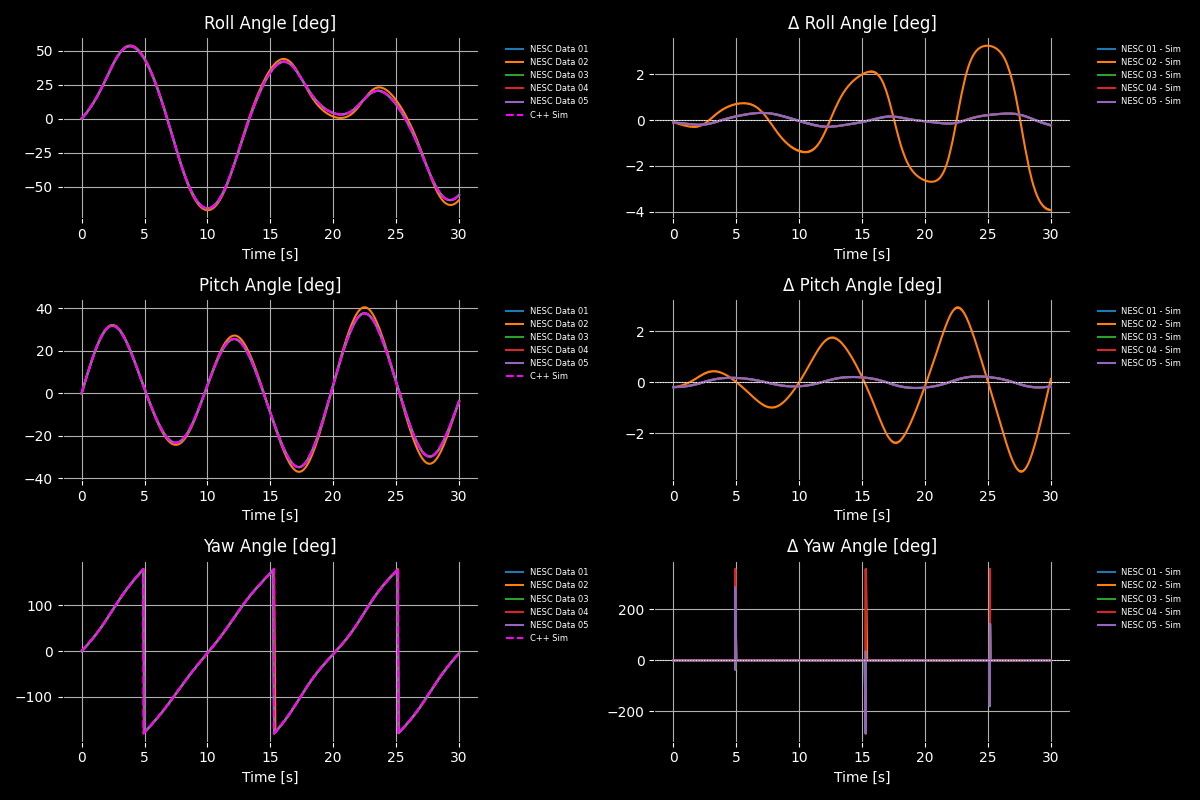
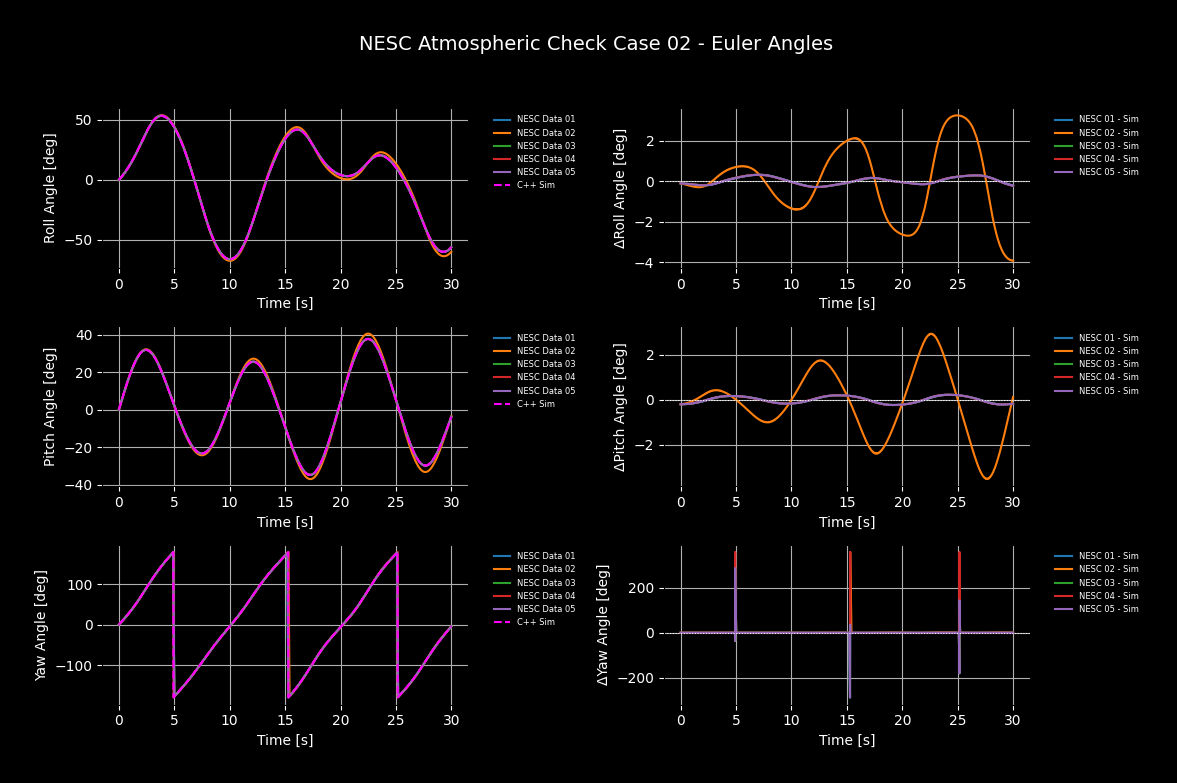
Update figures

diff --git a/sim/validation/plotting/groups.py b/sim/validation/plotting/groups.py
@@ -1,133 +1,128 @@
 from plotting.compare import FT_PER_M, DEG_PER_RAD, SLUG_FT3_PER_KG_M3, KNOTS_PER_M_S
 
-NED_VELOCITY = [
-    {
-        'nesc_col': 'feVelocity_ft_s_X',
-        'sim_col': 'vx_ned_mps',
-        'transform': lambda s: s * FT_PER_M,
-        'ylabel': 'X Velocity NED [ft/s]',
-    },
-    {
-        'nesc_col': 'feVelocity_ft_s_Y',
-        'sim_col': 'vy_ned_mps',
-        'transform': lambda s: s * FT_PER_M,
-        'ylabel': 'Y Velocity NED [ft/s]',
-    },
-    {
-        'nesc_col': 'feVelocity_ft_s_Z',
-        'sim_col': 'vz_ned_mps',
-        'transform': lambda s: s * FT_PER_M,
-        'ylabel': 'Z Velocity NED [ft/s]',
-    },
-]
+NED_VELOCITY = {
+    "title": r"NED Velocity",
+    "series": [
+        {
+            'nesc_col': 'feVelocity_ft_s_X',
+            'sim_col': 'vx_ned_mps',
+            'transform': lambda s: s * FT_PER_M,
+            'ylabel': 'X Velocity NED [ft/s]',
+        },
+        {
+            'nesc_col': 'feVelocity_ft_s_Y',
+            'sim_col': 'vy_ned_mps',
+            'transform': lambda s: s * FT_PER_M,
+            'ylabel': 'Y Velocity NED [ft/s]',
+        },
+        {
+            'nesc_col': 'feVelocity_ft_s_Z',
+            'sim_col': 'vz_ned_mps',
+            'transform': lambda s: s * FT_PER_M,
+            'ylabel': 'Z Velocity NED [ft/s]',
+        },
+    ],
+}
 
-ANGULAR_RATE = [
-    {
-        'nesc_col': 'bodyAngularRateWrtEi_deg_s_Roll',
-        'sim_col': 'roll_vel_rps',
-        'transform': lambda s: s * DEG_PER_RAD,
-        'ylabel': 'Roll Rate [deg/s]',
-    },
-    {
-        'nesc_col': 'bodyAngularRateWrtEi_deg_s_Pitch',
-        'sim_col': 'pitch_vel_rps',
-        'transform': lambda s: s * DEG_PER_RAD,
-        'ylabel': 'Pitch Rate [deg/s]',
-    },
-    {
-        'nesc_col': 'bodyAngularRateWrtEi_deg_s_Yaw',
-        'sim_col': 'yaw_vel_rps',
-        'transform': lambda s: s * DEG_PER_RAD,
-        'ylabel': 'Yaw Rate [deg/s]',
-    },
-]
+ANGULAR_RATE = {
+    "title": r"Angular Rates",
+    "series": [
+        {
+            'nesc_col': 'bodyAngularRateWrtEi_deg_s_Roll',
+            'sim_col': 'roll_vel_rps',
+            'transform': lambda s: s * DEG_PER_RAD,
+            'ylabel': 'Roll Rate [deg/s]',
+        },
+        {
+            'nesc_col': 'bodyAngularRateWrtEi_deg_s_Pitch',
+            'sim_col': 'pitch_vel_rps',
+            'transform': lambda s: s * DEG_PER_RAD,
+            'ylabel': 'Pitch Rate [deg/s]',
+        },
+        {
+            'nesc_col': 'bodyAngularRateWrtEi_deg_s_Yaw',
+            'sim_col': 'yaw_vel_rps',
+            'transform': lambda s: s * DEG_PER_RAD,
+            'ylabel': 'Yaw Rate [deg/s]',
+        },
+    ],
+}
 
-INERTIAL_VELOCITY = [
-    {
-        'nesc_col': 'eiVelocity_ft_s_X',
-        'sim_col': 'x_vel_mps',
-        'transform': lambda s: -s * FT_PER_M,
-        'ylabel': 'X Inertial Velocity [ft/s]',
-    },
-    {
-        'nesc_col': 'eiVelocity_ft_s_Y',
-        'sim_col': 'y_vel_mps',
-        'transform': lambda s: s * FT_PER_M,
-        'ylabel': 'Y Inertial Velocity [ft/s]',
-    },
-    {
-        'nesc_col': 'eiVelocity_ft_s_Z',
-        'sim_col': 'z_vel_mps',
-        'transform': lambda s: s * FT_PER_M,
-        'ylabel': 'Z Inertial Velocity [ft/s]',
-    },
-]
+INERTIAL_VELOCITY = {
+    "title": r"Inertial Velocity",
+    "series": [
+        {
+            'nesc_col': 'eiVelocity_ft_s_X',
+            'sim_col': 'x_vel_mps',
+            'transform': lambda s: -s * FT_PER_M,
+            'ylabel': 'X Inertial Velocity [ft/s]',
+        },
+        {
+            'nesc_col': 'eiVelocity_ft_s_Y',
+            'sim_col': 'y_vel_mps',
+            'transform': lambda s: s * FT_PER_M,
+            'ylabel': 'Y Inertial Velocity [ft/s]',
+        },
+        {
+            'nesc_col': 'eiVelocity_ft_s_Z',
+            'sim_col': 'z_vel_mps',
+            'transform': lambda s: s * FT_PER_M,
+            'ylabel': 'Z Inertial Velocity [ft/s]',
+        },
+    ],
+}
 
-AIR_DATA = [
-    {
-      'nesc_col': 'trueAirspeed_nmi_h',
-      'sim_col': 'true_airspeed_mps',
-      'transform': lambda s: s * KNOTS_PER_M_S,
-      'ylabel': 'True Airspeed [knots]'
-    },
-    {
-        'nesc_col': 'speedOfSound_ft_s',
-        'sim_col': 'speed_of_sound_mps',
-        'transform': lambda s: s * FT_PER_M,
-        'ylabel': 'Speed of Sound [ft/s]',
-    },
-    {
-        'nesc_col': 'airDensity_slug_ft3',
-        'sim_col': 'air_density',
-        'transform': lambda s: s * SLUG_FT3_PER_KG_M3,
-        'ylabel': 'Air Density [slug/ft^3]'
-    },
-    {
-        'nesc_col': 'mach',
-        'sim_col': 'mach',
-        'transform': lambda s: s,
-        'ylabel': 'Mach Number'
-    }
-]
+AIR_DATA = {
+    "title": r"Air Data",
+    "series": [
+        {
+            'nesc_col': 'trueAirspeed_nmi_h',
+            'sim_col': 'true_airspeed_mps',
+            'transform': lambda s: s * KNOTS_PER_M_S,
+            'ylabel': 'True Airspeed [knots]'
+        },
+        {
+            'nesc_col': 'speedOfSound_ft_s',
+            'sim_col': 'speed_of_sound_mps',
+            'transform': lambda s: s * FT_PER_M,
+            'ylabel': 'Speed of Sound [ft/s]',
+        },
+        {
+            'nesc_col': 'airDensity_slug_ft3',
+            'sim_col': 'air_density',
+            'transform': lambda s: s * SLUG_FT3_PER_KG_M3,
+            'ylabel': r'Air Density [$\mathrm{slug/ft^3}$]'
+            
+        },
+        {
+            'nesc_col': 'mach',
+            'sim_col': 'mach',
+            'transform': lambda s: s,
+            'ylabel': 'Mach Number'
+        }
+    ],
+}
 
-EULER_ANGLE = [
-    {
-        'nesc_col': 'eulerAngle_deg_Roll',
-        'sim_col': 'roll_angle',
-        'transform': lambda s: s * DEG_PER_RAD,
-        'ylabel': 'Roll Angle [deg]'
-    },
-    {
-        'nesc_col': 'eulerAngle_deg_Pitch',
-        'sim_col': 'pitch_angle',
-        'transform': lambda s: s * DEG_PER_RAD,
-        'ylabel': 'Pitch Angle [deg]'
-    },
-    {
-        'nesc_col': 'eulerAngle_deg_Yaw',
-        'sim_col': 'yaw_angle',
-        'transform': lambda s: s * DEG_PER_RAD,
-        'ylabel': 'Yaw Angle [deg]'
-    }
-]
-
-EULER_ANGLE_2 = [
-    {
-        'nesc_col': 'eulerAngle_deg_Roll',
-        'sim_col': 'roll_dcm_rad',
-        'transform': lambda s: s * DEG_PER_RAD,
-        'ylabel': 'Roll Angle [deg]'
-    },
-    {
-        'nesc_col': 'eulerAngle_deg_Pitch',
-        'sim_col': 'pitch_dcm_rad',
-        'transform': lambda s: s * DEG_PER_RAD,
-        'ylabel': 'Pitch Angle [deg]'
-    },
-    {
-        'nesc_col': 'eulerAngle_deg_Yaw',
-        'sim_col': 'yaw_dcm_rad',
-        'transform': lambda s: s * DEG_PER_RAD,
-        'ylabel': 'Yaw Angle [deg]'
-    }
-]
+EULER_ANGLE_2 = {
+    "title": r"Euler Angles",
+    "series": [
+        {
+            'nesc_col': 'eulerAngle_deg_Roll',
+            'sim_col': 'roll_dcm_rad',
+            'transform': lambda s: s * DEG_PER_RAD,
+            'ylabel': 'Roll Angle [deg]'
+        },
+        {
+            'nesc_col': 'eulerAngle_deg_Pitch',
+            'sim_col': 'pitch_dcm_rad',
+            'transform': lambda s: s * DEG_PER_RAD,
+            'ylabel': 'Pitch Angle [deg]'
+        },
+        {
+            'nesc_col': 'eulerAngle_deg_Yaw',
+            'sim_col': 'yaw_dcm_rad',
+            'transform': lambda s: s * DEG_PER_RAD,
+            'ylabel': 'Yaw Angle [deg]'
+        }
+    ],
+}

diff --git a/sim/validation/plotting/compare.py b/sim/validation/plotting/compare.py
@@ -45,7 +45,7 @@ def plot_comparison_axis(ax, sim_data, nesc_data, spec, style_axis):
     plot_nesc_series(ax, nesc_data, spec['nesc_col'])
     plot_sim_series(ax, sim_data, spec['sim_col'], spec.get('transform', identity))
     style_axis(ax)
-    ax.set_title(spec['ylabel'], color='white')
+    ax.set_ylabel(spec['ylabel'], color='white')
     
 
 def plot_group(sim_data, nesc_data, specs, nrows, ncols, filename, style_axis, figsize=(12, 8)):
@@ -54,7 +54,7 @@ def plot_group(sim_data, nesc_data, specs, nrows, ncols, filename, style_axis, f
 
     axes_flat = axes.flat if hasattr(axes, 'flat') else [axes]
 
-    for ax, spec in zip(axes_flat, specs):
+    for ax, spec in zip(axes_flat, specs['series']):
         plot_comparison_axis(ax, sim_data, nesc_data, spec, style_axis)
 
     # hide unused axes
@@ -100,24 +100,25 @@ def plot_difference_series(ax, sim_data, nesc_data, spec):
 def plot_difference_axis(ax, sim_data, nesc_data, spec, style_axis):
     plot_difference_series(ax, sim_data, nesc_data, spec)
     style_axis(ax)
-    ax.set_title(f"Δ {spec['ylabel']}", color='white')
+    ax.set_ylabel(f"Δ{spec['ylabel']}", color='white')
     
     
-def plot_group_with_difference(sim_data, nesc_data, specs, filename, style_axis, figsize=(12, 8)):
-    fig, axes = plt.subplots(len(specs), 2, figsize=figsize)
+def plot_group_with_difference(sim_data, nesc_data, specs, filename, style_axis, case_num, figsize=(12, 8)):
+    fig, axes = plt.subplots(len(specs['series']), 2, figsize=figsize)
+    fig.suptitle(fr"NESC Atmospheric Check Case {case_num} - {specs['title']}", fontsize=14, y=0.93, fontweight='normal', color='white')
     style_figure(fig)
 
-    if len(specs) == 1:
+    if len(specs['series']) == 1:
         axes = [axes]
 
-    for row, spec in enumerate(specs):
+    for row, spec in enumerate(specs['series']):
         ax_main = axes[row][0]
         ax_diff = axes[row][1]
 
         plot_comparison_axis(ax_main, sim_data, nesc_data, spec, style_axis)
         plot_difference_axis(ax_diff, sim_data, nesc_data, spec, style_axis)
 
-    plt.tight_layout()
-    plt.savefig(filename)
+    plt.tight_layout(rect=[0.02, 0.02, 0.97, 0.90])
+    plt.savefig(filename, bbox_inches="tight", pad_inches=0.35)
     plt.close()
     print(f'Figures saved to {filename}')

diff --git a/sim/validation/plot_sim_results.py b/sim/validation/plot_sim_results.py
@@ -21,6 +21,7 @@ def main():
     parser = argparse.ArgumentParser()
     parser.add_argument("--case", default="case_01", help="NESC check case")
     args = parser.parse_args()
+    case_num = args.case.split("_")[-1]
 
     config = importlib.import_module(f"nesc_cases.{args.case}.config")
     sim_data, nesc_data = load_data(config)
@@ -29,6 +30,7 @@ def main():
         sim_data=sim_data,
         nesc_data=nesc_data,
         specs=NED_VELOCITY,
+        case_num=case_num,
         filename=config.ROOT_PATH + config.NED_VELOCITY_PNG,
         style_axis=style_axis,
     )
@@ -37,6 +39,7 @@ def main():
         sim_data=sim_data,
         nesc_data=nesc_data,
         specs=ANGULAR_RATE,
+        case_num=case_num,
         filename=config.ROOT_PATH  + config.ANGULAR_RATE_PNG,
         style_axis=style_axis,
     )
@@ -45,6 +48,7 @@ def main():
         sim_data=sim_data,
         nesc_data=nesc_data,
         specs=EULER_ANGLE_2,
+        case_num=case_num,
         filename=config.ROOT_PATH + config.EULER_ANGLE_PNG,
         style_axis=style_axis,
     )
@@ -53,6 +57,7 @@ def main():
         sim_data=sim_data,
         nesc_data=nesc_data,
         specs=INERTIAL_VELOCITY,
+        case_num=case_num,
         filename=config.ROOT_PATH + config.INERTIAL_VELOCITY_PNG,
         style_axis=style_axis,
     )
@@ -61,6 +66,7 @@ def main():
         sim_data=sim_data,
         nesc_data=nesc_data,
         specs=AIR_DATA,
+        case_num=case_num,
         filename=config.ROOT_PATH + config.AIR_DATA_PNG,
         style_axis=style_axis,
     )
